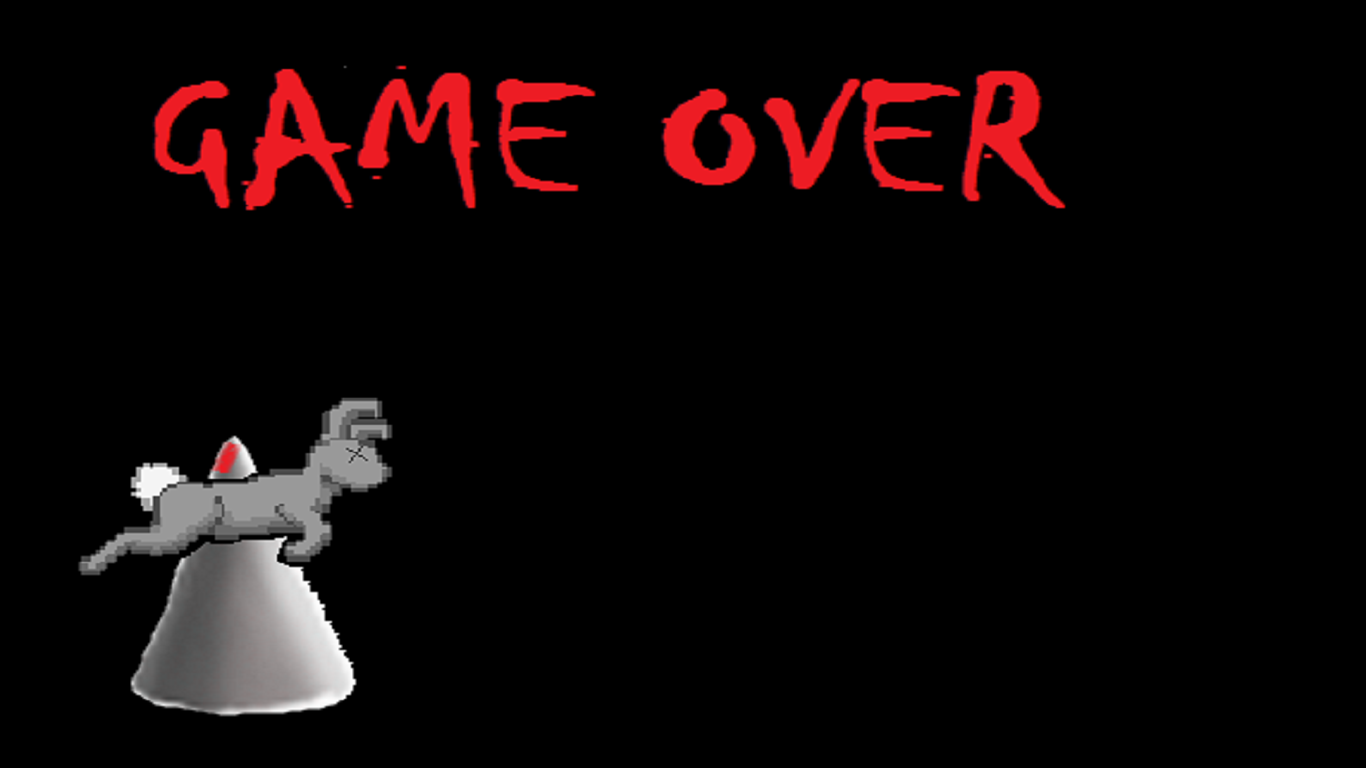
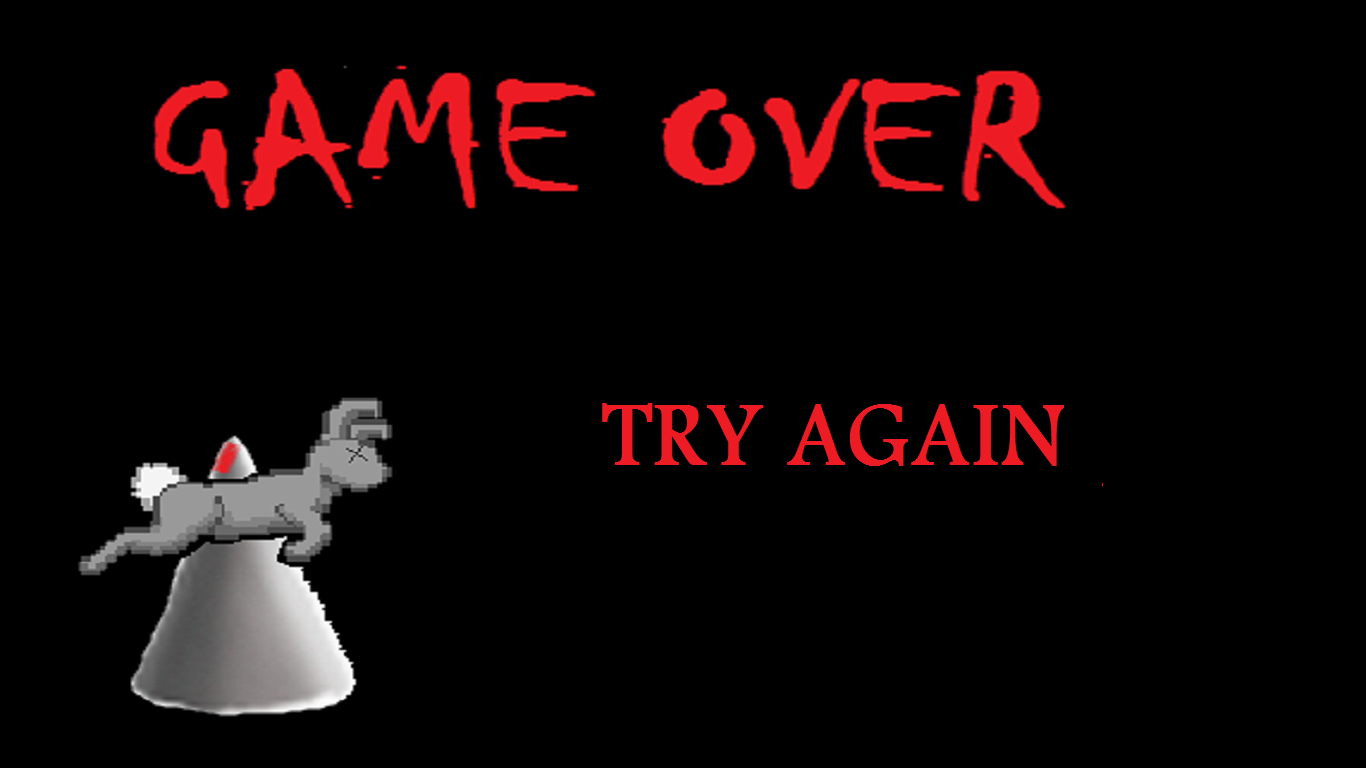
efege

Changed region(s): [[0.5842, 0.5312, 0.7994, 0.625], [0.4305, 0.5, 0.5534, 0.625]]

diff --git a/Level_2.py b/Level_2.py
@@ -78,14 +78,20 @@ def level_two(color):
     
         for event in pygame.event.get():
             if event.type == pygame.KEYDOWN:
+                
                 if event.key == pygame.K_LEFT:
                     player2.go_left()
                     background_x_change += 2
+                elif event.type == pygame.MOUSEBUTTONDOWN:
+                    if mouse_x >= 600:
+                        done = True
                 elif event.key == pygame.K_RIGHT:
                     player2.go_right()
                     background_x_change -= 2 
                 elif event.key == pygame.K_SPACE:
                     player2.jump()
+                
+                        
             elif event.type == pygame.KEYUP:
                 if event.key == pygame.K_LEFT and player2.change_x < 0:
                     player2.stop()

diff --git a/Main_Game.py b/Main_Game.py
@@ -109,7 +109,7 @@ def main():
     # Parent while loop
     while not really_done:
         
-        
+        print(Constants.game_over)
         # child loop containing loading screen!
         while screen_view == 0 and done == False:
             for event in pygame.event.get(): 
